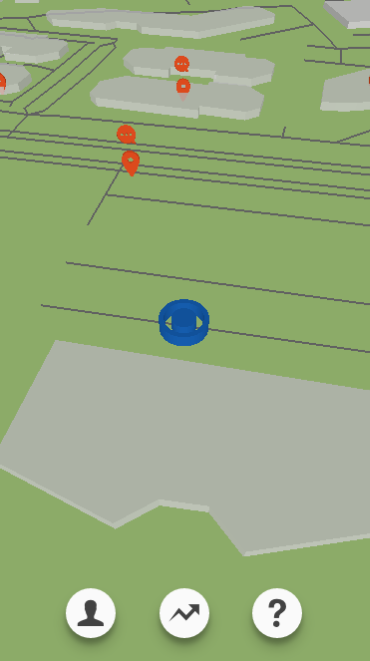
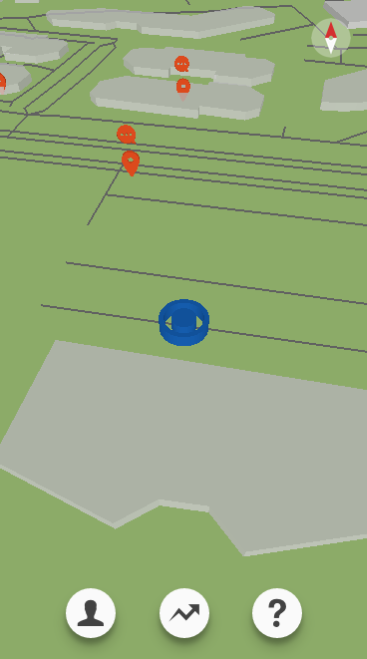
Adding compass feature

diff --git a/src/js/ui/game/GameOverlay.jsx b/src/js/ui/game/GameOverlay.jsx
@@ -3,15 +3,39 @@ import React from 'react';
 import UserButton from './buttons/UserButton.jsx';
 import BattleButton from './buttons/BattleButton.jsx';
 import HelpButton from './buttons/HelpButton.jsx';
+import Compass from './Compass.jsx';
 
 export default class GameOverlay extends React.Component {
+	constructor(props) {
+		super(props);
+
+		this.state = {
+			rotation: this.props.app.game.cameraManager.tempRotation
+		};
+	}
+
 	componentDidMount() {
 		// unblock touches
 		this.props.app.game.gestureHandler.ignoreTouches = false;
+
+		// listen for rotation changes
+		this.props.app.game.cameraManager.registerForRotationChanges(this.updateRotation.bind(this));
 	}
+
+	componentWillUnmount() {
+		this.props.app.game.cameraManager.unregisterForRotationChanges();
+	}
+
+	updateRotation(rotation) {
+		this.setState({
+			rotation: rotation
+		});
+	}
+
 	render() {
 		return (
 			<div className="game-wrap">
+				<Compass rotation={this.state.rotation} />
 				<UserButton {...this.props} />
 				<BattleButton {...this.props} />
 				<HelpButton {...this.props} />

diff --git a/src/js/game/cameraManager.js b/src/js/game/cameraManager.js
@@ -8,6 +8,8 @@ export default class CameraManager {
 		this.currentRotation = 0;
 		this.tempRotation;
 
+		this.rotationListener;
+
 		this.cameraDistance = Math.sqrt(Math.pow(game.camera.position.x, 2) + Math.pow(game.camera.position.y, 2));
 	}
 
@@ -39,6 +41,11 @@ export default class CameraManager {
 		const y = Math.sqrt(Math.pow(this.cameraDistance, 2) - Math.pow(x, 2)) * rotationSide;
 
 		this.positionCamera(x, y);
+		
+		// update rotation listener
+		if (this.rotationListener) {
+			this.rotationListener(this.tempRotation);
+		}
 	}
 
 	endRotation() {
@@ -58,5 +65,13 @@ export default class CameraManager {
 
 		const gameCenter = new THREE.Vector3(center.x, center.y, 0);
 		camera.lookAt(gameCenter);
+	}
+
+	registerForRotationChanges(target) {
+		this.rotationListener = target;
+	}
+
+	unregisterForRotationChanges() {
+		this.rotationListener = null;
 	}
 }

diff --git a/src/js/ui/game/Compass.jsx b/src/js/ui/game/Compass.jsx
@@ -1,0 +1,9 @@
+import React from 'react';
+
+export default class Compass extends React.Component {	
+	render() {
+		return (
+			<div className="compass" style={{transform: 'rotate(' + this.props.rotation + 'deg)'}} />
+		)
+	}
+}

diff --git a/src/sass/_game.scss b/src/sass/_game.scss
@@ -54,6 +54,15 @@
 	}
 }
 
+.compass {
+	position: fixed;
+	top: 20px;
+	right: 20px;
+	z-index: 2;
+	height: 40px;
+	width: 40px;	
+	background-image: url('../assets/compass.png');
+}
 
 
 .full-screen {
